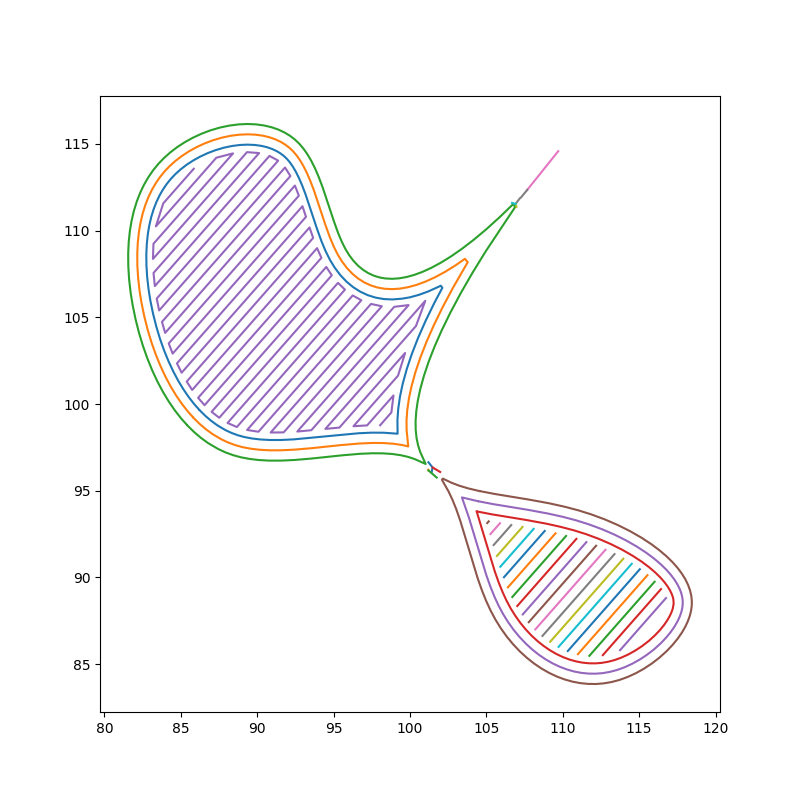
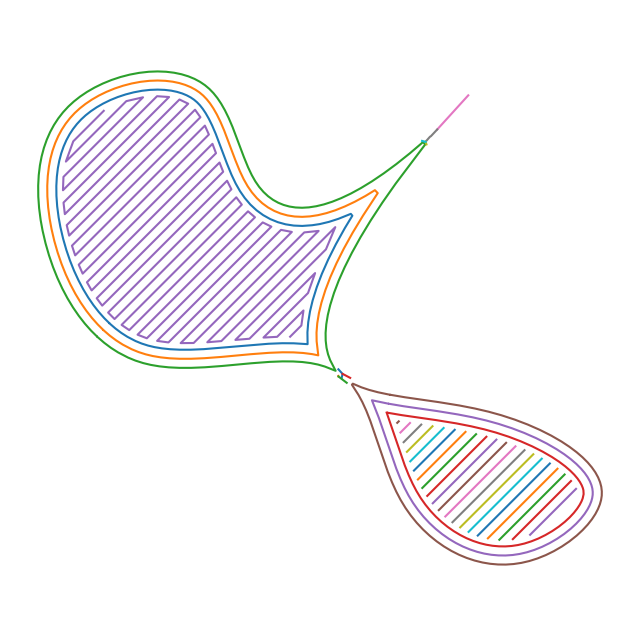
update readme

diff --git a/src/gcode_reader.py b/src/gcode_reader.py
@@ -76,6 +76,7 @@ HALF_WIDTH = 0.6 # FDM regular
 # HALF_WIDTH = 1.5 # FDM stratasys
 # HALF_WIDTH = 50e-6
 
+## This is for research...
 # FDM regular: current 0.5 mm = 500 mu, target 50 mu
 # FDM stratasys: current 1.4 mm = 1400 mu, target 50 mu
 # HORIZONTAL_SHRINK_RATIO = 0.0001 # tweety and octo
@@ -854,6 +855,15 @@ class GcodeReader:
         # ax.set_ylim([ymin, ymax])
         ax.set_xlim(add_margin_to_axis_limits(xmin, xmax))
         ax.set_ylim(add_margin_to_axis_limits(ymin, ymax))
+        ax.set_xlabel('x')
+        ax.set_ylabel('y')
+        ax.set_title("{:s}(layer = {:d})".format(self.filename, layer))
+        if not FIG_INFO:
+            ax.set_xticks([])
+            ax.set_yticks([])
+            ax.axis('off')
+            ax.set_title("")
+        # ax.set_title(self.fila)
         left, right = (self.seg_index_bars[layer - 1],
                        self.seg_index_bars[layer])
         seg_lst = self.segs[left: right]
@@ -923,10 +933,11 @@ def get_parser():
                         type=int, help='plot the mesh of a layer in 2D')
     parser.add_argument('-p', '--plot', dest='plot3d', action='store_true',
                         help='plot the whole part')
-    parser.add_argument('-conv', '--convert', dest='convert', action='store_true', 
-                        help='convert FDM path to LPBF scode.')
     parser.add_argument('-s', '--save', dest='outfile', action='store',
                         help='specify the path of output file')
+    ### below part is in construction
+    parser.add_argument('-conv', '--convert', dest='convert', action='store_true', 
+            help='convert FDM path to LPBF scode.')
     parser.add_argument('-nei', '--neighbor', dest='neighbor_layer_idx',
             action='store', default=-1, type=int, help='plot nearest neighbor of each element in one layer')
     parser.add_argument('-poly', '--polygon', dest='polygon_layer_idx',

diff --git a/README.md b/README.md
@@ -1,41 +1,27 @@
 # G-code Reader
-A Gcode visulization and analysis tool written in python. It supports FDM Gcode, Stratasys Gcode and SLS Gcode. It can print a single layer, print multiple layers. It also can animate the printing of a single layer or multiple layers.
+A Gcode visualization and analysis tool written in Python 3. It supports FDM G-Code, Stratasys G-Code and PBF G-Code. It can print a single layer, print multiple layers. It also can animate the printing of a single layer or multiple layers.
 
-*Update: Add animation of printint process*
+**Usage**
 
-* Animation of Printint Single Layer in 2D
-[![animation2d](images/tweety2d.png)](https://youtu.be/0pambiz2EeM)
+In order to use this program, you need to use -t to specify G-Code type: 1 for regular G-Code, 2 for Stratasys G-Code, 3 for PBF G-Code.
+
+1. Plot a part in 3D. 
+   
+
+Example:
+   ` python src/gcode_reader.py -t 1 gcode/fdm_regular/octo.gcode -p`
+
+   ![Octopus part](images/octo3d.png)
+
+2. Plot a single layer of a part in 2D
+   Example (use -l to specify layer number):
+   `python src/gcode_reader.py -t 1 gcode/fdm_regular/octo.gcode -l 1`
+   ![first layer of octopus part](images/octo2d.png)
+
+3. Animate the printing process of a single layer in 2D
+
+    Example (use -a to specify layer number)
+   `python src/gcode_reader.py -t 1 gcode/fdm_regular/tweety.gcode -a 1`
+   [![animation2d](images/tweety2d.png)](https://youtu.be/0pambiz2EeM)
 
 **[click above figure to play]**
-
-* Animation of Printing Multiple Layers in 3D
-[![animation3d](images/mobius3d.png)](https://youtu.be/n16rB9qlLmw)
-
-**[click above figure to play]**
-
-* Plot a single layer in 2D
-![tweety2d](images/tweety2d.png)
-![octo2d](images/octo2d.png)
-![mobius2d](images/mobius2d.png)
-
-* Plot the whole part in 3D
-![octo3d](images/octo3d.png)
-![mobius3d](images/mobius3d.png)
-
-* Plot multiple layers in 3D
-![octoml](images/octoml.png)
-![armml](images/armml.png)
-
-* Analysis of Process Plan
-![analysis](images/info1.png)
-![analysis](images/info2.png)
-![analysis](images/info3.png)
-For L-PBF,
-![analysis](images/info3-pbf.png)
-
-* Plot meshing
-![mesh](images/mesh.png)
-
-* Analysis of meshing
-![analysis](images/info-4.png)
-![analysis](images/info-5.png)
